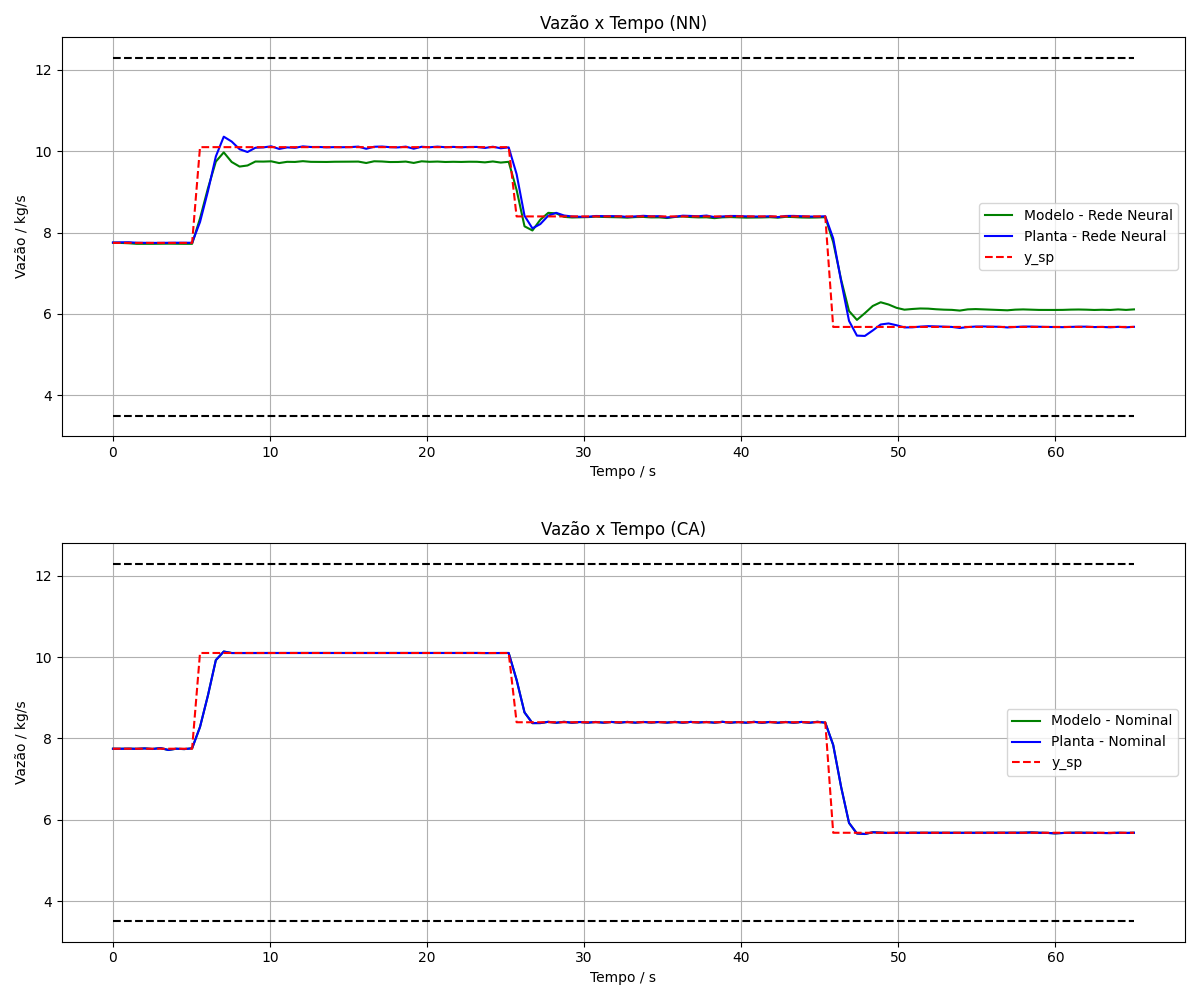
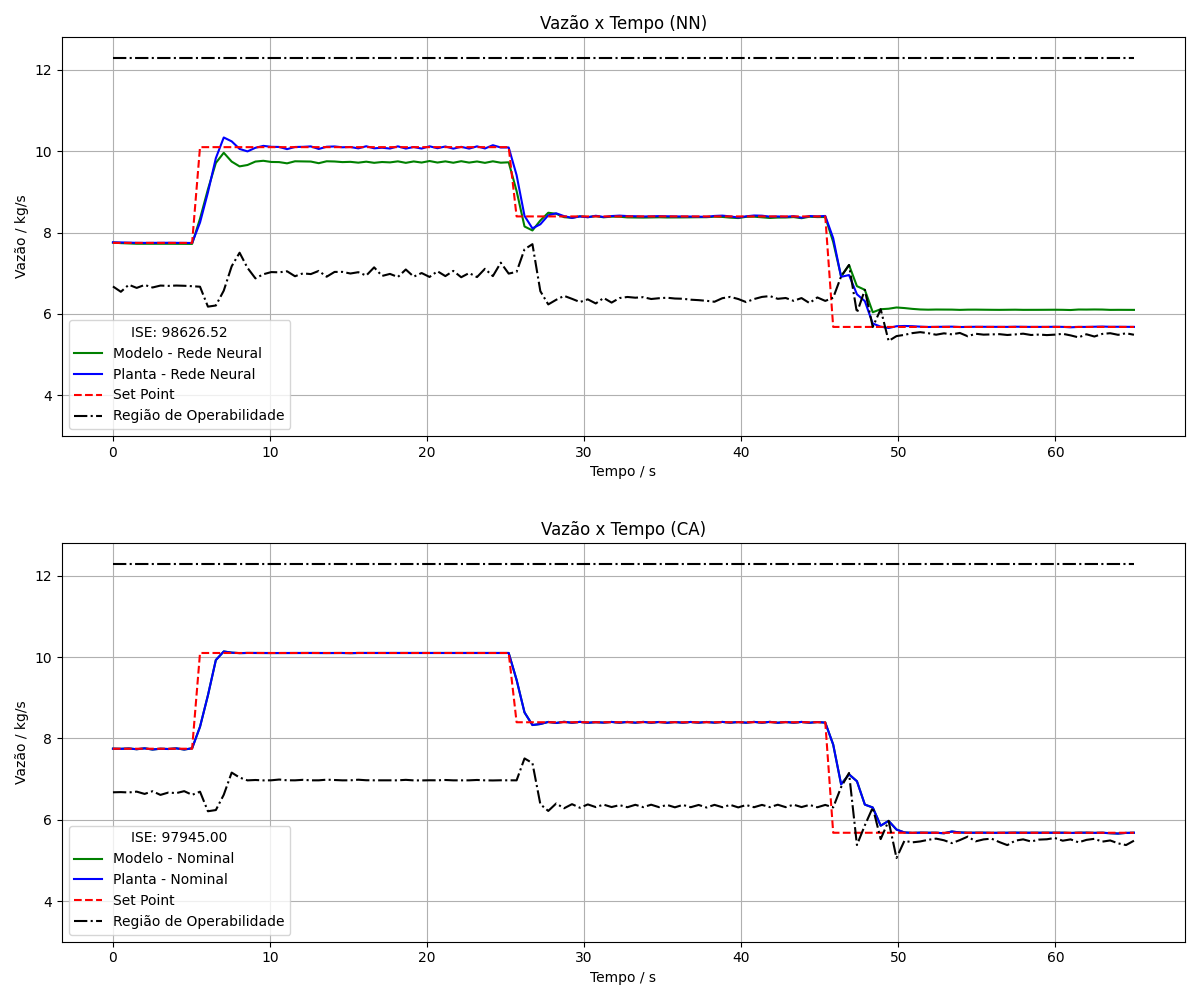
A planta está passando da restrição, mas o modelo não, preciso diminuir o offset

diff --git a/NNMPC/Compare.py b/NNMPC/Compare.py
@@ -30,8 +30,8 @@ def superPlot(iter_NN, Ymk_NN,
     plt.plot(x_NN / 2, np.array(Ymk_NN)[:, 0], label="Modelo - Rede Neural", color='green')
     plt.plot(x_NN / 2, np.array(Ypk_NN)[:, 0], label="Planta - Rede Neural", color="blue")
     plt.plot(x_NN / 2, YspM_NN.squeeze(), linestyle="--", color="red", label="Set Point")
-    plt.plot(x_NN / 2, YmMin_NN.squeeze(), linestyle="--", color="red", label="Set Point")
-    plt.plot([0, iter_NN / 2], [12.3, 12.3], linestyle="--", color="black")
+    plt.plot(x_NN / 2, YmMin_NN, linestyle="-.", color="black", label="Região de Operabilidade")
+    plt.plot([0, iter_NN / 2], [12.3, 12.3], linestyle="-.", color="black")
     plt.title("Vazão x Tempo (NN)")
     plt.ylabel("Vazão / kg/s")
     plt.xlabel("Tempo / s")
@@ -43,8 +43,8 @@ def superPlot(iter_NN, Ymk_NN,
     plt.plot(x_CA / 2, np.array(Ymk_CA)[:, 0], label="Modelo - Nominal", color='green')
     plt.plot(x_CA / 2, np.array(Ypk_CA)[:, 0], label="Planta - Nominal", color="blue")
     plt.plot(x_CA / 2, YspM_CA.squeeze(), linestyle="--", color="red", label="Set Point")
-    plt.plot(x_NN / 2, YmMin_CA.squeeze(), linestyle="--", color="red", label="Set Point")
-    plt.plot([0, iter_CA / 2], [12.3, 12.3], linestyle="--", color="black")
+    plt.plot(x_NN / 2, YmMin_CA, linestyle="-.", color="black", label="Região de Operabilidade")
+    plt.plot([0, iter_CA / 2], [12.3, 12.3], linestyle="-.", color="black")
     plt.title("Vazão x Tempo (CA)")
     plt.ylabel("Vazão / kg/s")
     plt.xlabel("Tempo / s")
@@ -62,8 +62,8 @@ def superPlot(iter_NN, Ymk_NN,
     plt.plot(x_NN / 2, np.array(Ymk_NN)[:, 1], label="Modelo - Rede Neural", color="green")
     plt.plot(x_NN / 2, np.array(Ypk_NN)[:, 1], label="Planta - Rede Neural", color="blue")
     plt.plot(x_NN / 2, YspP_NN.squeeze(), linestyle="--", color="red", label="y_sp")
-    plt.plot([0, iter_NN / 2], [5.27, 5.27], linestyle="--", color="black")
-    plt.plot([0, iter_NN / 2], [9.3, 9.3], linestyle="--", color="black")
+    plt.plot([0, iter_NN / 2], [5.27, 5.27], linestyle="-.", color="black", label="Região de Operabilidade")
+    plt.plot([0, iter_NN / 2], [9.3, 9.3], linestyle="-.", color="black")
     plt.title("Pressão x Tempo (NN)")
     plt.ylabel("Pressão / kPa")
     plt.xlabel("Tempo / s")
@@ -75,8 +75,8 @@ def superPlot(iter_NN, Ymk_NN,
     plt.plot(x_CA / 2, np.array(Ymk_CA)[:, 1], label="Modelo - Nominal", color="green")
     plt.plot(x_CA / 2, np.array(Ypk_CA)[:, 1], label="Planta - Nominal", color="blue")
     plt.plot(x_CA / 2, YspP_CA.squeeze(), linestyle="--", color="red", label="y_sp")
-    plt.plot([0, iter_CA / 2], [5.27, 5.27], linestyle="--", color="black")
-    plt.plot([0, iter_CA / 2], [9.3, 9.3], linestyle="--", color="black")
+    plt.plot([0, iter_CA / 2], [5.27, 5.27], linestyle="-.", color="black", label="Região de Operabilidade")
+    plt.plot([0, iter_CA / 2], [9.3, 9.3], linestyle="-.", color="black")
     plt.title("Pressão x Tempo (CA)")
     plt.ylabel("Pressão / kPa")
     plt.xlabel("Tempo / s")
@@ -92,8 +92,8 @@ def superPlot(iter_NN, Ymk_NN,
     plt.figure(figsize=(12,10))
     plt.subplot(2, 1, 1)
     plt.plot(x_NN / 2, np.array(Upk_NN)[:, 0], label="Abertura - Rede Neural", color="blue")
-    plt.plot([0, iter_NN / 2], [0.35, 0.35], linestyle="--", color="black")
-    plt.plot([0, iter_NN / 2], [0.65, 0.65], linestyle="--", color="black")
+    plt.plot([0, iter_NN / 2], [0.35, 0.35], linestyle="-.", color="black", label="Região de Operabilidade")
+    plt.plot([0, iter_NN / 2], [0.65, 0.65], linestyle="-.", color="black")
     plt.title("Abertura da Válvula x Tempo (NN)")
     plt.ylabel("Alpha / %")
     plt.xlabel("Tempo / s")
@@ -102,8 +102,8 @@ def superPlot(iter_NN, Ymk_NN,
 
     plt.subplot(2, 1, 2)
     plt.plot(x_CA / 2, np.array(Upk_CA)[:, 0], label="Abertura - Nominal", color="blue")
-    plt.plot([0, iter_CA / 2], [0.35, 0.35], linestyle="--", color="black")
-    plt.plot([0, iter_CA / 2], [0.65, 0.65], linestyle="--", color="black")
+    plt.plot([0, iter_CA / 2], [0.35, 0.35], linestyle="-.", color="black", label="Região de Operabilidade")
+    plt.plot([0, iter_CA / 2], [0.65, 0.65], linestyle="-.", color="black")
     plt.title("Abertura da Válvula x Tempo (CA)")
     plt.ylabel("Alpha / %")
     plt.xlabel("Tempo / s")
@@ -118,8 +118,8 @@ def superPlot(iter_NN, Ymk_NN,
     plt.figure(figsize=(12,10))
     plt.subplot(2, 1, 1)
     plt.plot(x_NN / 2, np.array(Upk_NN)[:, 1], label="Vel. Rotação - Rede Neural", color="blue")
-    plt.plot([0, iter_NN / 2], [27e3, 27e3], linestyle="--", color="black")
-    plt.plot([0, iter_NN / 2], [5e4, 5e4], linestyle="--", color="black")
+    plt.plot([0, iter_NN / 2], [27e3, 27e3], linestyle="-.", color="black", label="Região de Operabilidade")
+    plt.plot([0, iter_NN / 2], [5e4, 5e4], linestyle="-.", color="black")
     plt.title("Velocidade de Rotação x Tempo (NN)")
     plt.ylabel("N / Hz")
     plt.xlabel("Tempo / s")
@@ -128,8 +128,8 @@ def superPlot(iter_NN, Ymk_NN,
 
     plt.subplot(2, 1, 2)
     plt.plot(x_CA / 2, np.array(Upk_CA)[:, 1], label="Vel. Rotação - Nominal", color="blue")
-    plt.plot([0, iter_CA / 2], [27e3, 27e3], linestyle="--", color="black")
-    plt.plot([0, iter_CA / 2], [5e4, 5e4], linestyle="--", color="black")
+    plt.plot([0, iter_CA / 2], [27e3, 27e3], linestyle="-.", color="black", label="Região de Operabilidade")
+    plt.plot([0, iter_CA / 2], [5e4, 5e4], linestyle="-.", color="black")
     plt.title("Velocidade de Rotação x Tempo (CA)")
     plt.ylabel("N / Hz")
     plt.xlabel("Tempo / s")
@@ -146,6 +146,8 @@ def superPlot(iter_NN, Ymk_NN,
     plt.axvline(np.mean(Tempos_CA), color='red', linestyle="--", label=f"Média CA: {np.mean(Tempos_CA):.2f} s")
     plt.hist(Tempos_NN, bins=20, color='blue', alpha=0.7, edgecolor='black')
     plt.axvline(np.mean(Tempos_NN), color='blue', linestyle="--", label=f"Média NN: {np.mean(Tempos_NN):.2f} s")
+    plt.axvline(0.5, color='green', linestyle="--", label="Tempo de Amostragem")
+    plt.axvspan(0, 0.5, color='gray', alpha=0.3, label="Região de Interesse")  # Adiciona a região cinza claro
     plt.title("Histograma das Frequências de Tempo")
     plt.xlabel("Tempo")
     plt.ylabel("Frequência")

diff --git a/NNMPC/NNMPC.py b/NNMPC/NNMPC.py
@@ -179,7 +179,7 @@ class PINN_MPC():
 
         iter = 130
         for i in range(iter):
-            mMink = self.mMin(ymk[-1])
+            mMink = self.mMin(ypk[-1])
             mMink = np.array(mMink.full())
             self.y_min = np.array([[float(mMink[0][0])], [5.27]])
 
